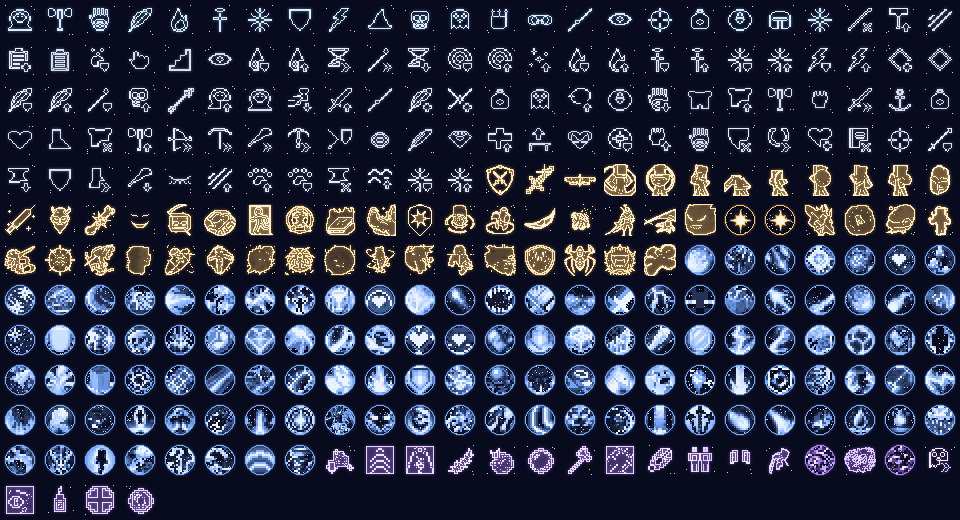
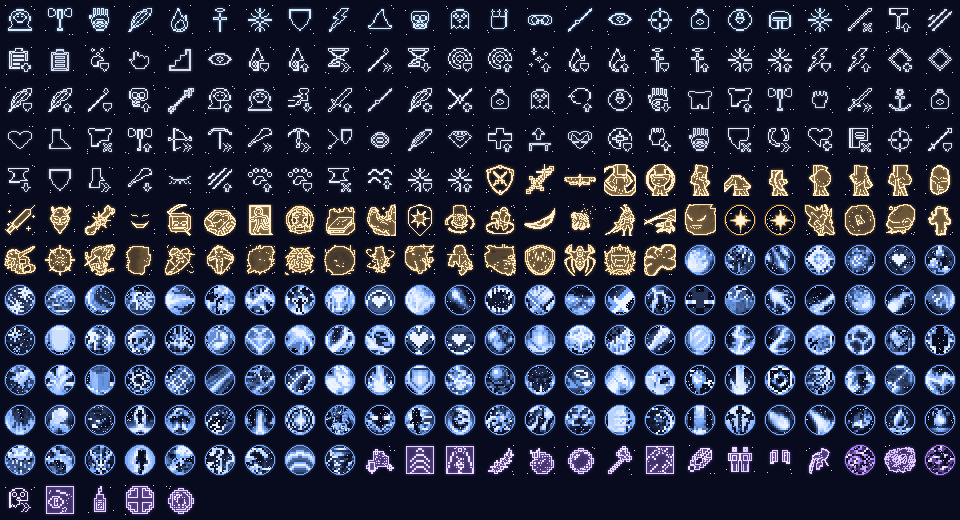
Ice gets Despair instead of Cursed Blast, Water loses Cursed Blast and Halberd Horizon; fix Shadow's Behind You and Kirin's Climb keys; no diet restrictions; skill-point message points to the menu; performance client renders at 75%
Claude-Session: https://claude.ai/code/session_01VqWRhJXvmJKThCHGaTguU9

Changed region(s): [[0.0, 0.7692, 1.0, 1.0]]

diff --git a/modpack/origins_overrides.py b/modpack/origins_overrides.py
@@ -128,12 +128,13 @@ origin('origins:merling', remove=['origins:water_breathing', 'origins:air_from_p
        description='These natural inhabitants of the ocean breathe water as easily as air.')
 
 # ---------------------------------------------------------------- Medieval Origins Revival
-origin('medievalorigins:arachnae', remove=['medievalorigins:arachnae/brittle'],
-       description='-§l Overview§r: \n§o§2+ Poison, Crowd Control\n+ Wall Climbing§r\n§o§6• Carnivore§r\n§o§c- Hunger, Health§r\nA grotesque amalgamation of spider and human, with venomous fangs and bristled feet yet the ability to walk upright and wield weaponry.')
+origin('medievalorigins:arachnae', remove=['medievalorigins:arachnae/brittle', 'origins:carnivore'],  # no diet restrictions in this pack
+       description='-§l Overview§r: \n§o§2+ Poison, Crowd Control\n+ Wall Climbing§r\n§o§c- Hunger, Health§r\nA grotesque amalgamation of spider and human, with venomous fangs and bristled feet yet the ability to walk upright and wield weaponry.')
 origin('medievalorigins:dwarf', remove=['medievalorigins:dwarf/darkness_dweller', 'medievalorigins:dwarf/potent_brew', 'medievalorigins:dwarf/miniature'],
        description='-§l Overview§r: \n§o§2+ Mining, Caving§r\n§o§c- Can\'t swim§r\n§lDwarves§r are practical, stocky, and prideful. They excel at mining and living underground. Rock and stone, brother.')
-origin('medievalorigins:wood_elf', remove=['medievalorigins:wood_elf/forest_vision', 'medievalorigins:wood_elf/elegant', 'medievalorigins:wood_elf/towering'],
-       description='-§l Overview§r: \n§o§2+ Ranged Bonuses, Speed§r\n§o§6• Vegetarian§r\n§o§c- Melee Damage§r\n§lWood Elves§r are a wise, long-lived race who live in harmony with the Earth. They are quick with a sword and bow.')
+origin('medievalorigins:wood_elf', remove=['medievalorigins:wood_elf/forest_vision', 'medievalorigins:wood_elf/elegant', 'medievalorigins:wood_elf/towering',
+                                          'medievalorigins:wood_elf/steward'],  # Steward made them vegetarian
+       description='-§l Overview§r: \n§o§2+ Ranged Bonuses, Speed§r\n§o§c- Melee Damage§r\n§lWood Elves§r are a wise, long-lived race who live in harmony with the Earth. They are quick with a sword and bow.')
 greedy = src('medievalorigins', 'powers', 'goblin/greedy')
 for key in ('golden_weapon_boosts', 'golden_weapon_boosts_offhand'):
     mods = [m for m in greedy[key]['modifiers'] if m['attribute'] != 'minecraft:generic.attack_damage']
@@ -156,17 +157,28 @@ origin('medievalorigins:ogre', remove=['medievalorigins:ogre/gargantuan', 'medie
        description='-§l Overview§r: \n§o§2+ Axe Bonuses, Health §r\n§o§c- Hunger §r\n§lHalf-Ogres§r carry the blood of the large, short-tempered and brutish Ogres. They are human-sized, but keep much of their raw strength and toughness.')
 
 # ---------------------------------------------------------------- Origins++
-origin('origins-plus-plus:land_shark', remove=['origins-plus-plus:land-shark/fins'], name='Sharkfolk',
+origin('origins-plus-plus:land_shark', remove=['origins-plus-plus:land-shark/fins', 'origins:carnivore'], name='Sharkfolk',
        description='A ferocious predator at home in both water and land.')
 exhaustion = src('origins-plus-plus', 'powers', 'kirin/exhaustion')
 exhaustion['exhaustion'] = exhaustion['exhaustion'] / 2
 exhaustion['description'] = 'You get hungry a little faster.'
 power('origins-plus-plus:kirin/exhaustion', exhaustion)
-origin('origins-plus-plus:kirin', remove=['origins-plus-plus:kirin/dislike_of_water', 'origins-plus-plus:kirin/cat_size'])
-origin('origins-plus-plus:raptus', remove=['origins-plus-plus:raptus/light_armor', 'origins-plus-plus:raptus/small'], name='Saurusfolk',
+# Climb was toggled with the vanilla "Save Hotbar Activator" key, which is unbound (and Kirin's two Origins keys are
+# taken by Jump Boost and Unrivaled Speed), so it could never be switched on: climb walls whenever you walk into them
+climb = src('origins-plus-plus', 'powers', 'kirin/climb')
+del climb['toggle']
+for key in ('hold_condition', 'condition'):
+    climb['climbing'][key]['conditions'] = [c for c in climb['climbing'][key]['conditions'] if c.get('type') != 'origins:power_active']
+power('origins-plus-plus:kirin/climb', climb)
+origin('origins-plus-plus:kirin', remove=['origins-plus-plus:kirin/dislike_of_water', 'origins-plus-plus:kirin/cat_size', 'origins:carnivore'])
+origin('origins-plus-plus:raptus', remove=['origins-plus-plus:raptus/light_armor', 'origins-plus-plus:raptus/small', 'origins:carnivore'], name='Saurusfolk',
        description='Descendants of the great raptors, these creatures can be found hunting in packs or resting.')
 origin('origins-plus-plus:rat', remove=['origins-plus-plus:rat/nocturnal_eyes', 'origins-plus-plus:rat/slow_swimmer', 'origins-plus-plus:rat/one_block_height'],
        name='Ratfolk', description='A quick critter of the night. You hunt and appear filthy to others.')
+# Behind You was on the vanilla "Save Hotbar Activator" key, which is unbound: use the Origins primary key (G)
+behind = src('origins-plus-plus', 'powers', 'shadow/behind_you')
+behind['key'] = {'key': 'key.origins.primary_active', 'continuous': False}
+power('origins-plus-plus:shadow/behind_you', behind)
 origin('origins-plus-plus:shadow', remove=['origins-plus-plus:shadow/cloud', 'origins-plus-plus:shadow/sun_weakness',
                                            'origins-plus-plus:shadow/no_food', 'origins-plus-plus:shadow/hunger'])
 origin('origins-plus-plus:sporeling', remove=['origins-plus-plus:sporeling/light_armor', 'origins-plus-plus:sporeling/small'], drop_upgrades=True,

diff --git a/mdvlcraft-binder/tools/astro_origins.py b/mdvlcraft-binder/tools/astro_origins.py
@@ -450,6 +450,10 @@ def badge(src):
 
 
 UI_PACK = PACK / 'client-overrides/resourcepacks/MDVLCraft-Astrologer-UI.zip'
+# other mods' text that must win over the mod's own lang file (the skill trees open from the MDVLCraft menu only)
+LANG = {
+    'puffish_skills': {'chat.puffish_skills.new_point': 'You have a new skill point. Assign it from the Skills page of the MDVLCraft menu.'},
+}
 
 
 def screens():
@@ -473,6 +477,8 @@ def screens():
             buf = io.BytesIO()
             im.save(buf, 'PNG')
             add(f'assets/{ns}/{path}', buf.getvalue())
+        for ns, entries in sorted(LANG.items()):
+            add(f'assets/{ns}/lang/en_us.json', json.dumps(entries, indent=2, ensure_ascii=False))
     return list(out)
 
 

diff --git a/modpack/CHANGELOG.md b/modpack/CHANGELOG.md
@@ -1,5 +1,33 @@
 # MDVLCraft changelog
 
+## Unreleased (Binder 0.7.8)
+
+### Skill trees
+
+- **Ice**: Cursed Blast is replaced by **Despair** (T.O Magic 'n Extras, Level 5: an ice axe blade that pierces
+  everything in its path, recast up to 4 times; 54 mana, 13.5 s cooldown with the pack's T.O scaling of 0.6x mana
+  and 0.75x cooldown), same place and cost (3 points). Halberd Horizon stays.
+- **Water**: Cursed Blast and Halberd Horizon removed.
+- Despair has its own Astrologer icon (`tools/astro_theme.py`); Cursed Blast's icon and mana/cooldown config are
+  gone.
+
+### Races (Origins)
+
+- **Shadow**: *Behind You* (teleport behind the creature you look at) was on vanilla's *Save Hotbar Activator* key,
+  which is unbound, so it could never be used. It is now on the Origins primary key (**G**).
+- **Kirin**: *Climb* was switched on with the same unbound key (and Kirin's G and H are taken), so it never worked.
+  Kirin now climbs walls whenever they walk into them.
+- **No diet restrictions**: Arachnae, Sharkfolk, Kirin and Saurusfolk lose *Carnivore* (meat only), and the Wood Elf
+  loses *Steward*, which made them vegetarian. Their descriptions no longer mention it. No class has a diet
+  restriction.
+
+### Other
+
+- The new-skill-point chat message now says to assign it from the Skills page of the MDVLCraft menu (it named the
+  removed skill-tree key, which showed as unbound). Set in the MDVLCraft-Astrologer-UI resource pack.
+- **Client (Performance)** renders the 3D world at 75% resolution with smooth upscaling (RenderScale,
+  `config/renderscale.json5`); the HUD and menus stay sharp. The regular client stays at 100%.
+
 ## 1.9.15 (Binder 0.7.7)
 
 Packs built (`python3 modpack/build_mrpack.py 1.9.15`). The menu, every screen it opens and the Status screen were
